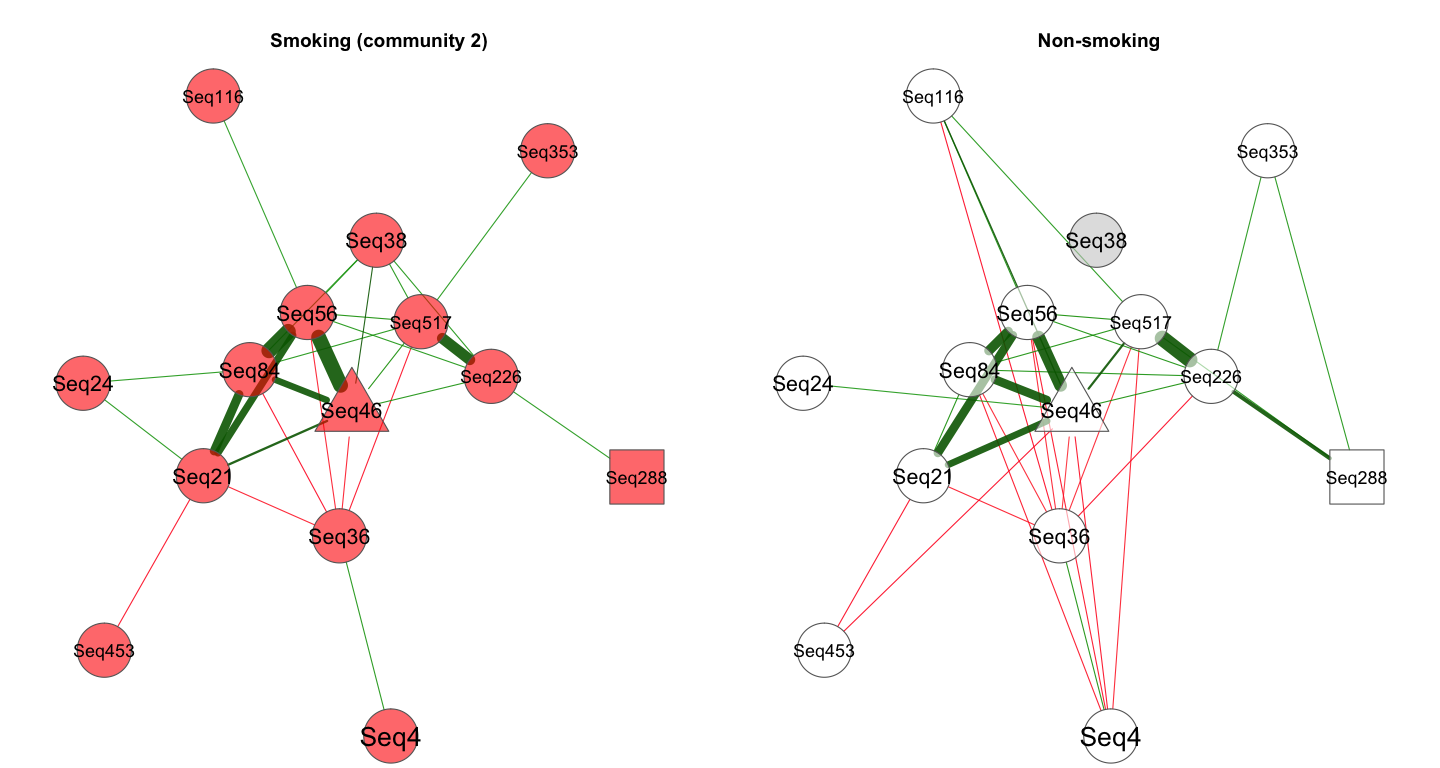
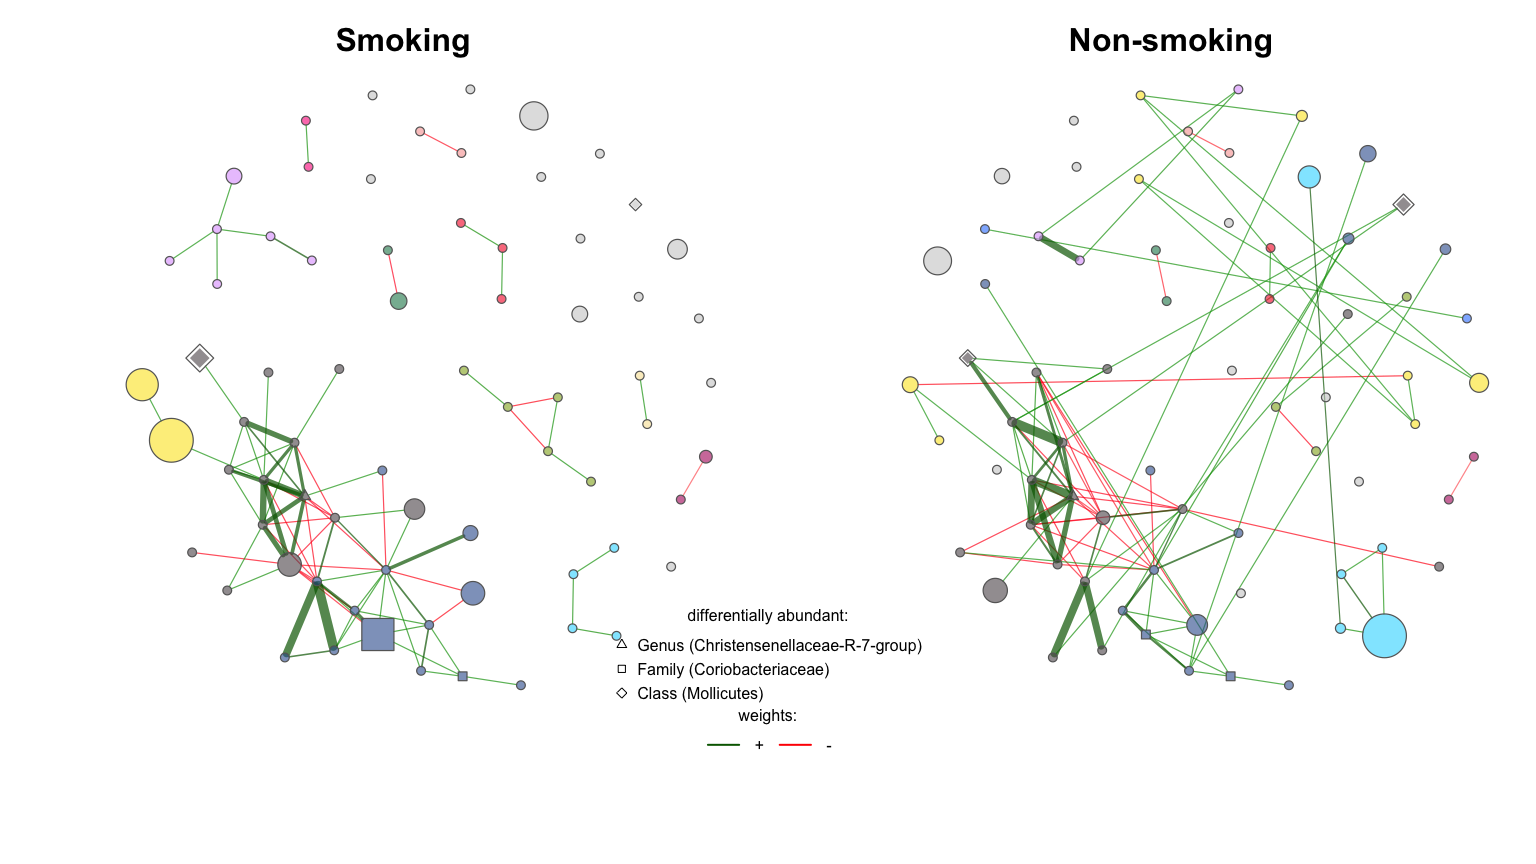
new plots vizs

diff --git a/5_networks/5.2.1_Networks_viz_Gen_smoke.md b/5_networks/5.2.1_Networks_viz_Gen_smoke.md
@@ -30,6 +30,21 @@ The following code was run on a cluster.
 # props_W <- netAnalyze(net_W, clustMethod = "cluster_fast_greedy")
 ```
 
+    ## [1] 75
+
+``` r
+# row_sum_1 <- apply(props_W$input$normCounts1, 1,sum)
+# row_sum_2 <- apply(props_W$input$normCounts2, 1,sum)
+# norm_counts_1 <- clr(props_W$input$normCounts1 + .5)
+# norm_counts_2 <- clr(props_W$input$normCounts2 + .5)
+# 
+# norm_counts_1[props_W$input$normCounts1 == 0] <- 0
+# norm_counts_2[props_W$input$normCounts2 == 0] <- 0
+# 
+# props_W$input$normCounts1 <- norm_counts_1
+# props_W$input$normCounts2 <- norm_counts_2
+```
+
 We plot the results of the netAnalyze function.
 
 ``` r
@@ -53,11 +68,12 @@ set.seed(1)
 
 shapeVec <- rep(1, ncol(otu_table(ps_Genus_prune)))
 shapeVec[c(24, 40, 53, 105)] <- 2
-shapeVec[c(28,  50,  77,  87,  90, 99, 110, 128, 131, 70, 112)] <- 3
+shapeVec[c(28,  50,  77,  87,  90, 99, 110, 128, 131)] <- 3
+shapeVec[c(70, 112)] <- 4
 names(shapeVec) <- names(phyl_ps_prune)
 
 
-plot(props_W, 
+plot_props <- plot(props_W, 
      layout = "layout_with_fr",
      sameLayout = TRUE, layoutGroup = 1, 
      labels = FALSE,
@@ -67,10 +83,11 @@ plot(props_W,
      borderCol = "gray40", highlightHubs = FALSE, 
      nodeSize = "normCounts", 
      cexNodes = 1, 
+     # nodeSizeSpread = 3,
      cexTitle = 2,
      edgeTranspLow = 30, 
      edgeTranspHigh = 30,
-     nodeShape = c("circle", "triangle","square"),
+     nodeShape = c("circle", "triangle","square","diamond"),
      featVecShape = shapeVec,
      rmSingles = "inboth",
      mar = c(6,5,3,2), groupNames = c("Smoking", "Non-smoking"))
@@ -86,15 +103,16 @@ legend("bottom",
 legend("bottom", 
        inset = .19, 
        title = "differentially abundant:",
-       legend=c("Genus (Christensenellaceae-R-7-group)","Class"), pch = c(2,0), 
+       legend=c("Genus (Christensenellaceae-R-7-group)","Family (Coriobacteriaceae)","Class (Mollicutes)"), 
+       pch = c(2,0,5), 
        bty="n", horiz = FALSE) 
 legend("bottom", 
        inset = .1,
-       legend = "node size: sum raw counts",
+       legend = "node size: median raw counts",
        bty="n", horiz = TRUE) 
 ```
 
-![](5.2.1_Networks_viz_Gen_smoke_files/figure-gfm/unnamed-chunk-4-1.png)<!-- -->
+![](5.2.1_Networks_viz_Gen_smoke_files/figure-gfm/unnamed-chunk-6-1.png)<!-- -->
 
 ## Network properties
 
@@ -147,8 +165,8 @@ plot_cluster <- plot(props_W,
      sameColThresh = 2,
      nodeTransp = 40, 
      borderCol = "gray40", highlightHubs = FALSE,
-     nodeSize = "fix", cexNodes = 1, 
-     nodeShape = c("circle", "triangle", "square"),
+     nodeSize = "normCounts", cexNodes = 1, 
+     nodeShape = c("circle", "triangle", "square","diamond"),
      featVecShape = shapeVec,
      rmSingles = "inboth",
      cexTitle = 2,
@@ -163,11 +181,12 @@ legend("bottom",
 legend("bottom", 
        inset = .17, 
        title = "differentially abundant:",
-       legend=c("Genus (Christensenellaceae-R-7-group)","Class"), pch = c(2,0), 
+       legend=c("Genus (Christensenellaceae-R-7-group)","Family (Coriobacteriaceae)","Class (Mollicutes)"), 
+       pch = c(2,0,5), 
        bty="n", horiz = FALSE) 
 ```
 
-![](5.2.1_Networks_viz_Gen_smoke_files/figure-gfm/unnamed-chunk-7-1.png)<!-- -->
+![](5.2.1_Networks_viz_Gen_smoke_files/figure-gfm/unnamed-chunk-9-1.png)<!-- -->
 
 #### Shared nodes among modules
 
@@ -196,7 +215,11 @@ V(g_sum)$color=gsub("FALSE","palegreen3",V(g_sum)$color)
 V(g_sum)$color=gsub("TRUE","mediumpurple",V(g_sum)$color)
 E(g_sum)$weight <- as.numeric(inc_com_sum[,3])
 
-layout_bi_rows <- layout_as_bipartite(g_sum, hgap = 50, vgap = 60, maxiter = 1000)
+layout_bi_rows <- layout_as_bipartite(g_sum, hgap = 50, vgap = 60, maxiter = 1)
+layout_bi_rows <- layout_bi_rows[,2:1]
+
+# layout_bi_rows[,2] <- c(sort(layout_bi_rows[V(g_sum)$type == TRUE,2], decreasing = TRUE)[order(V(g_sum)$com_size[V(g_sum)$type == TRUE], decreasing = TRUE)],
+#                     sort(layout_bi_rows[V(g_sum)$type == FALSE,2], decreasing = TRUE)[order(V(g_sum)$com_size[V(g_sum)$type == FALSE], decreasing = TRUE)])
 
 legend_cats <- data.frame(size_circle = V(g_sum)$com_size/2,
                           size_text = V(g_sum)$com_size)
@@ -207,7 +230,7 @@ legend_cats <- legend_cats[c(1,20,24),]
 # order by vertex size
 par(mfrow=c(1,1))
 plot(g_sum, vertex.size = V(g_sum)$com_size/2, edge.width=E(g_sum)$weight/5, 
-     layout=layout_bi_rows[,2:1], vertex.label=V(g_sum)$com_nr,
+     layout=layout_bi_rows, vertex.label=V(g_sum)$com_nr,
      vertex.label.dist=5, vertex.label.degree = pi*V(g_sum)$type, 
      margin = -.2, asp = 2, edge.arrow.size=.7)
 
@@ -219,7 +242,7 @@ legend(x=.1, y=-1.1, legend=legend_cats$size_text, pt.cex=legend_cats$size_circl
        title = "Module size (nb. of nodes):")
 ```
 
-![](5.2.1_Networks_viz_Gen_smoke_files/figure-gfm/unnamed-chunk-8-1.png)<!-- -->
+![](5.2.1_Networks_viz_Gen_smoke_files/figure-gfm/unnamed-chunk-10-1.png)<!-- -->
 
 ### Module 2 split (smoking)
 
@@ -240,41 +263,42 @@ plot(props_W,
      borderCol = "gray40", highlightHubs = FALSE,
      nodeSize = "fix", cexNodes = 1, 
      nodeFilter = "names",
-     nodeShape = c("circle", "triangle", "square"),
+     nodeShape = c("circle", "triangle", "square","diamond"),
      featVecShape = shapeVec[names_clust],
      nodeFilterPar = names_clust,
      edgeTranspLow = 10, edgeTranspHigh = 10,
      groupNames = c("Smoking (community 2)", "Non-smoking"))
 ```
 
-![](5.2.1_Networks_viz_Gen_smoke_files/figure-gfm/unnamed-chunk-9-1.png)<!-- -->
-\#\#\# Module 1 split (non-smoking)
+![](5.2.1_Networks_viz_Gen_smoke_files/figure-gfm/unnamed-chunk-11-1.png)<!-- -->
+
+### Module 1 split (non-smoking)
 
 ``` r
-names_clust <- as.character(names(which(props_W$clustering$clust2 == 1)))
+names_clust <- as.character(names(props_W$clustering$clust2[props_W$clustering$clust2 %in% c(1,2)]))
 # labels_phyl <- substr(as.character(phyl_ps_prune[names_clust]), 1, 3)
-# col_module <- unique(plot_cluster$q1$Arguments$color[names_clust],
-#                     plot_cluster$q2$Arguments$color[names_clust])
+col_module <- unique(plot_cluster$q1$Arguments$color[names_clust],
+                    plot_cluster$q2$Arguments$color[names_clust])
 
 plot(props_W, 
-     sameLayout = TRUE, layoutGroup = 2, 
+     sameLayout = TRUE, layoutGroup = 1,
      # labels = list(props_W$clustering$clust1[names_clust], props_W$clustering$clust2[names_clust]), 
      labelFont = 1, cexLabels = 1.5,
-     nodeColor = "cluster",
-     # colorVec =  col_module,
-     sameClustCol = FALSE,
-     nodeTransp = 40, 
+     # nodeColor = "cluster",
+     colorVec =  col_module,
+     # sameClustCol = FALSE,
+     nodeTransp = 40,
      borderCol = "gray40", highlightHubs = FALSE,
-     nodeSize = "fix", cexNodes = 1, 
+     nodeSize = "fix", cexNodes = .8, 
      nodeFilter = "names",
-     nodeShape = c("circle", "triangle","square"),
+     nodeShape = c("circle", "triangle","square","diamond"),
      featVecShape = shapeVec[names_clust],
      nodeFilterPar = names_clust,
      edgeTranspLow = 10, edgeTranspHigh = 10,
-     groupNames = c("Smoking", "Non-smoking (community 1)"))
+     groupNames = c("Smoking", "Non-smoking"))
 ```
 
-![](5.2.1_Networks_viz_Gen_smoke_files/figure-gfm/unnamed-chunk-10-1.png)<!-- -->
+![](5.2.1_Networks_viz_Gen_smoke_files/figure-gfm/unnamed-chunk-12-1.png)<!-- -->
 
 ### Correlation structure of module 1 (non-smoking)
 
@@ -292,4 +316,4 @@ corrplot(cor_1, method = "color", tl.col = "grey", mar=c(0,0,5,0),
          col = col1(100), title = "Non-smoking (community 1)")
 ```
 
-![](5.2.1_Networks_viz_Gen_smoke_files/figure-gfm/unnamed-chunk-11-1.png)<!-- -->
+![](5.2.1_Networks_viz_Gen_smoke_files/figure-gfm/unnamed-chunk-13-1.png)<!-- -->
